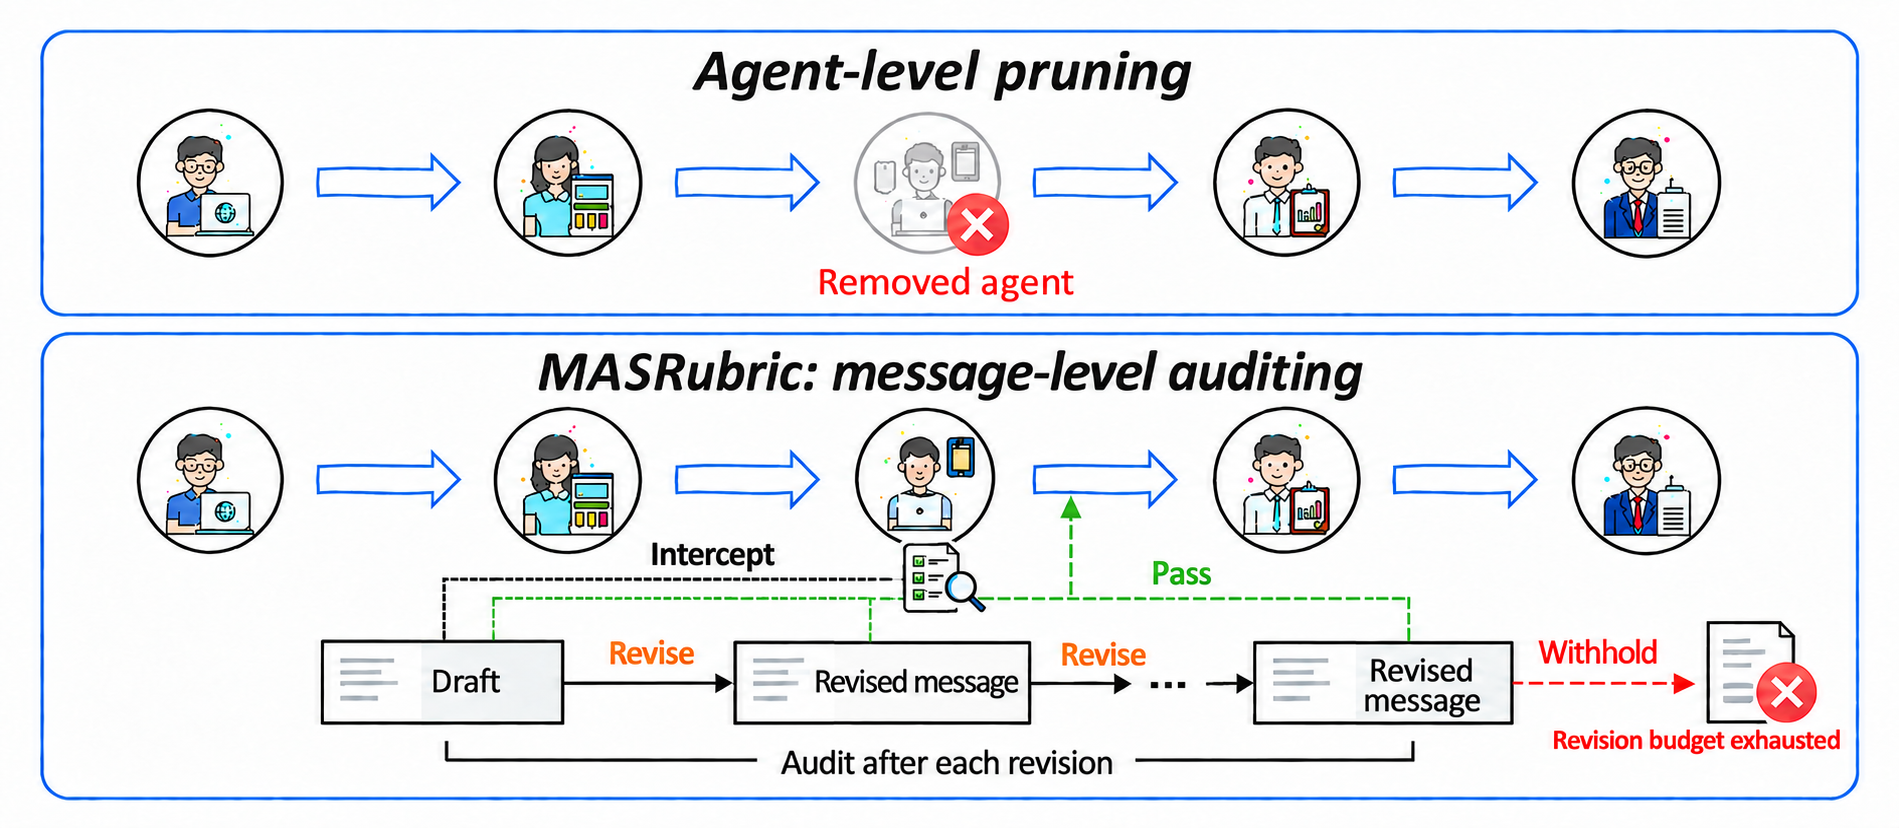
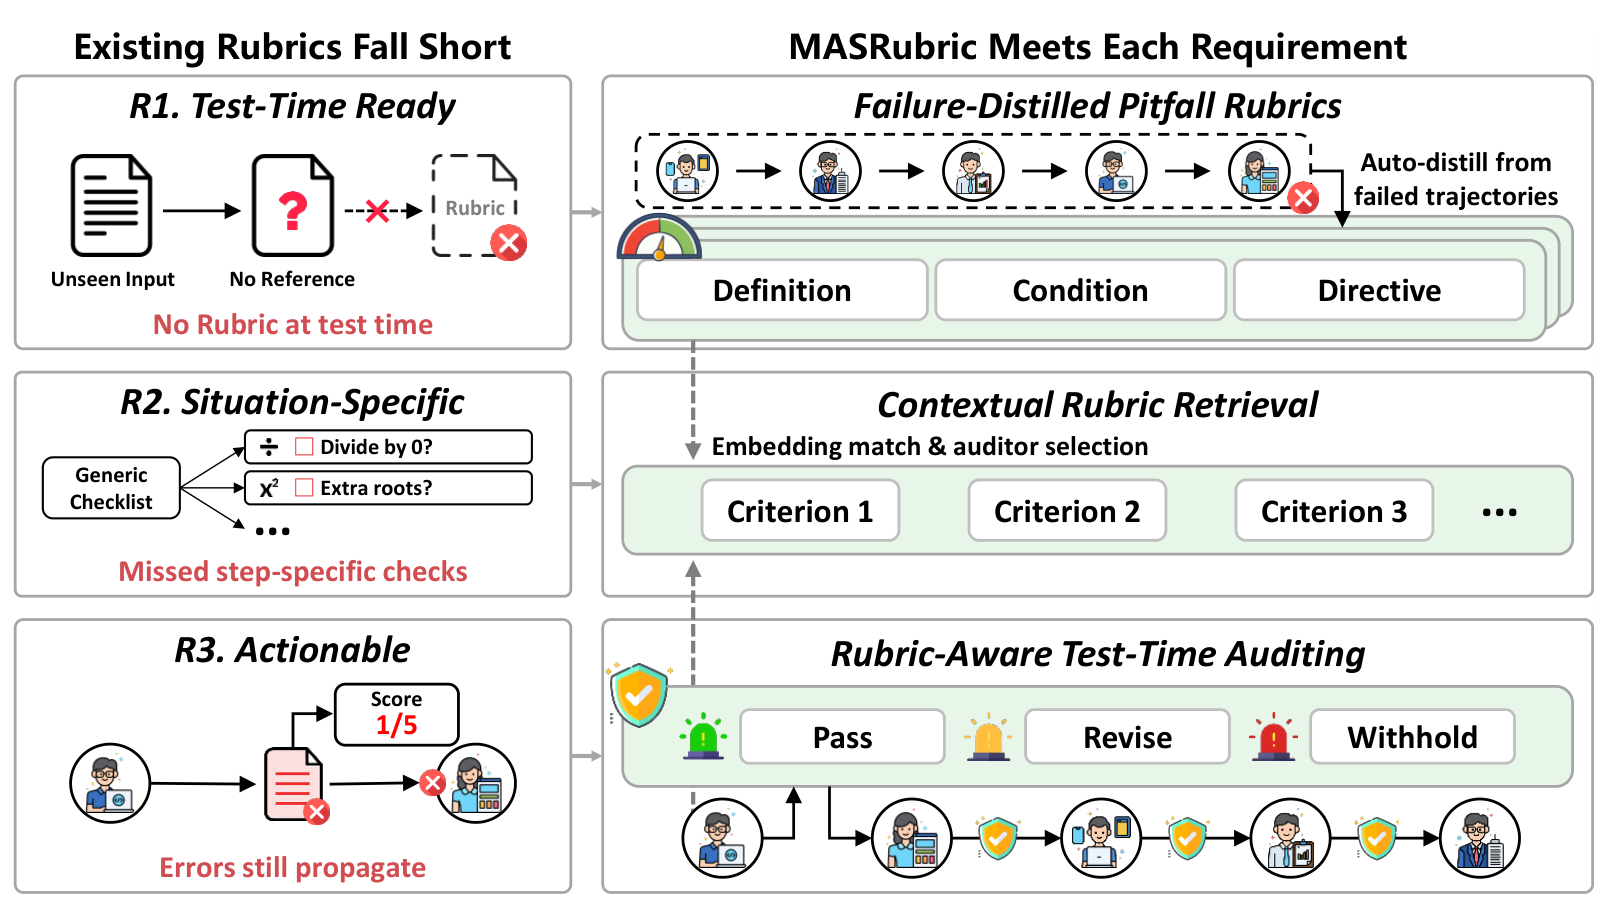
Align public presentation with current MASRubric manuscript and original figures

Changed region(s): [[0.0, 0.0302, 0.9926, 0.9964]]

diff --git a/readme.md b/readme.md
@@ -14,49 +14,74 @@
 </p>
 
 <p align="center">
-  <a href="https://arxiv.org/abs/2602.23258">Preprint (earlier title)</a> &nbsp;|&nbsp;
+  <a href="#paper-and-citation">Manuscript</a> &nbsp;|&nbsp;
   <a href="docs/paper_main_reproduction.md">Runbook</a> &nbsp;|&nbsp;
   <a href="docs/experiment_matrix.md">Experiments</a> &nbsp;|&nbsp;
-  <a href="#citation">Citation</a>
+  <a href="#reported-results">Reported results</a>
 </p>
 
 ## Overview
 
-MASRubric builds a bank of diagnostic criteria from failed multi-agent
-trajectories, retrieves a contextual rubric for each intermediate message, and
-decides whether to **Pass**, **Revise**, or **Withhold** it. A separate auditor
-provides feedback; the reasoning agent revises its own output. Base models remain
-frozen, and the criterion bank stays fixed during inference. Reference answers
-are used for offline mining and benchmark grading, and are withheld from the
-online auditor.
+MASRubric audits intermediate messages before errors propagate through a
+multi-agent system. It distills recurring reasoning pitfalls from failed
+trajectories into a reusable criterion bank, then retrieves a context-specific
+rubric for each message. The auditor's verdict controls whether that message is
+passed downstream, revised by its author, or withheld.
 
-1. **Learn from failures.** Collect unsuccessful multi-agent trajectories and
-   distill reusable diagnostic criteria into a compact bank.
-2. **Retrieve a rubric.** Select criteria relevant to the current task and
-   intermediate message.
-3. **Audit before broadcast.** Pass accepted messages, request targeted revisions,
-   and withhold messages that still fail after the revision budget.
+The framework addresses three requirements for useful test-time rubrics:
+
+- **Test-time ready:** reusable criteria apply to unseen inputs without a
+  reference answer or human-written criterion at inference time.
+- **Situation-specific:** each message is checked against criteria whose
+  applicability conditions match its reasoning context.
+- **Actionable:** criterion-level judgments lead to **Pass**, **Revise**, or
+  **Withhold** decisions before the message reaches downstream agents.
 
 <p align="center">
-  <img src="image/readme/masrubric-overview.png" alt="Agent-level dropout and MASRubric message-level auditing" width="1000">
+  <img src="image/readme/masrubric-overview.png" alt="Existing rubrics versus MASRubric on test-time readiness, situation specificity, and actionable decisions" width="1000">
 </p>
 
-<p align="center"><em>From agent-level dropout to message-level auditing: retrieve a rubric, revise the message, and control what reaches downstream agents.</em></p>
+<p align="center"><em>Figure 1 from the MASRubric manuscript: existing rubrics and MASRubric compared against the three requirements.</em></p>
+
+## Method
+
+1. **Mine criteria from failures.** Run a source MAS on training queries, retain
+   failed trajectories, and identify recurring agent-level pitfalls. Each
+   criterion records a name, diagnostic definition, applicability condition,
+   and inspection directive.
+2. **Compact the bank.** Retrieve semantically similar criteria and use an LLM
+   to eliminate duplicate error patterns. The resulting bank stays fixed
+   during inference.
+3. **Retrieve a contextual rubric.** Match the message's reasoning situation to
+   applicability conditions, then select the relevant criteria.
+4. **Audit and intervene.** Aggregate binary criterion judgments into a
+   satisfaction rate. Pass messages meeting the threshold; otherwise return
+   diagnostic feedback to the original agent for revision, or withhold the
+   message when its revision budget is exhausted.
+
+Reference answers support offline failure collection and rubric mining. The
+online auditor operates without them.
 
 <p align="center">
   <img src="image/readme/masrubric-framework.png" alt="Offline criterion-bank construction and online MASRubric information flow" width="1100">
 </p>
 
-<p align="center"><em>MASRubric combines offline criterion-bank construction with online retrieval, auditing, and Pass / Revise / Withhold decisions.</em></p>
+<p align="center"><em>Figure 2 from the MASRubric manuscript. Lower: offline rubric mining and two-stage deduplication. Upper: contextual retrieval, criterion-level auditing, and Pass / Revise / Withhold decisions.</em></p>
 
-## Paper
+## Reported results
 
-The public preprint is available under the project's earlier title,
-[**AgentDropoutV2: Optimizing Information Flow in Multi-Agent Systems via
-Test-Time Rectify-or-Reject Pruning**](https://arxiv.org/abs/2602.23258).
-Its latest posted version is v2, dated May 28, 2026. This repository now uses
-the MASRubric name; the [citation](#citation) retains the preprint's title and
-author metadata.
+The current MASRubric manuscript reports the following average accuracies with
+Qwen3-8B reasoning agents (Tables 1 and 2):
+
+| Evaluation | Underlying MAS | + MASRubric | Gain |
+| --- | ---: | ---: | ---: |
+| Fixed-MAS, 9 math benchmarks | 51.15% | 52.74% | +1.59 points |
+| Dynamic-MAS, 9 math benchmarks | 50.86% | 53.69% | +2.83 points |
+| Dynamic-MAS, 4 code benchmarks | 46.63% | 48.37% | +1.74 points |
+
+These are manuscript-reported results. New runs produce their own measurements;
+the release's supported reproduction scope is described in the
+[runbook](docs/paper_main_reproduction.md#supported-scope-and-runtime-behavior).
 
 ## Quick start
 
@@ -119,8 +144,8 @@ OlympiadBench grader, external assets, and output interpretation.
 The reference launcher covers nine math tasks and four code tasks. The banks
 contain 2,000 math criteria and 2,545 code criteria. Twelve evaluation datasets
 are bundled; LiveCodeBench's matching 400-problem file and embedding caches must
-be supplied or generated separately. Precomputed experiment outputs and result
-tables are excluded; new runs write their own measurements.
+be supplied or generated separately. Raw experiment outputs are excluded; new
+runs write their own measurements.
 
 ## Additional experiments
 
@@ -155,20 +180,10 @@ results, logs, caches, and local credentials are ignored by Git. Review any
 manually added outputs before sharing them, as they can contain prompts, paths,
 and endpoint configuration.
 
-## Citation
+## Paper and citation
 
-For the public preprint, use its arXiv citation:
-
-```bibtex
-@misc{wang2026agentdropoutv2optimizinginformationflow,
-  title={AgentDropoutV2: Optimizing Information Flow in Multi-Agent Systems via Test-Time Rectify-or-Reject Pruning},
-  author={Yutong Wang and Siyuan Xiong and Xuebo Liu and Wenkang Zhou and Liang Ding and Miao Zhang and Min Zhang},
-  year={2026},
-  eprint={2602.23258},
-  archivePrefix={arXiv},
-  primaryClass={cs.AI},
-  url={https://arxiv.org/abs/2602.23258}
-}
-```
+This repository presents **MASRubric: Auditing Information Flow in Multi-Agent
+Systems with Failure-Distilled Pitfall Rubrics**. Its public preprint link and
+citation will be added when the manuscript update is available.
 
 This codebase builds on [AgentDropout](https://github.com/wangzx1219/AgentDropout).

diff --git a/docs/paper_main_reproduction.md b/docs/paper_main_reproduction.md
@@ -33,8 +33,9 @@ dependencies cannot silently switch the run to string comparison.
 ## Assets and endpoints
 
 Twelve evaluation datasets, the MBPP training examples, and the two criterion
-banks are included under `paper/assets/`. The 400-record LiveCodeBenchV1 input
-is external. Place it at
+banks are included under `paper/assets/`. The banks contain 2,000 math and 2,545
+code criteria, matching the current manuscript's Table 5. The 400-record
+LiveCodeBenchV1 input is external. Place it at
 `paper/assets/datasets/livecode/livecodebench_v1.jsonl`, or use `--in-file` for a
 single LiveCodeBench run. Use the matching 400-problem evaluation set when
 comparing with the paper; a different export changes the evaluation population.
@@ -138,23 +139,29 @@ missing outputs count as incorrect.
 
 The configurable runtime in `test/masrubric/` also provides a fixed DAG and
 intervention presets through `test/run_release_experiment.py`. This extension
-has not been established as equivalent to the paper's historical Fixed-MAS
-implementation or every comparison and ablation method. See the
+has not been established as equivalent to the Fixed-MAS experiments reported
+in the current manuscript or every comparison and ablation method. See the
 [experiment matrix](experiment_matrix.md) for its available presets.
 
-The reference launcher's message limit of 7 counts the initial user task plus
-at most 6 agent messages. Math uses 20 retrieval candidates, up to 5 selected
-criteria, and a satisfaction threshold of 0.6. Code uses direct top-3 retrieval
-and a threshold of 1.0; its final-answer temperature is 0.0. Math final-answer
-temperature is 0.7. These code settings differ from the paper's general setup
-(20 candidates, up to 5 selected criteria, threshold 0.6, and temperature 0.7
-for other models). Renaming or running the artifact does not establish that
-every manuscript result has been reproduced.
+The current manuscript reports six chat turns (§4.1). This artifact sets its
+message limit to 7, counting the initial user task plus at most 6 agent messages.
+The manuscript also specifies a three-revision budget, 20 retrieval candidates,
+up to 5 selected criteria for math and 3 for code, and satisfaction thresholds
+of 0.6 and 1.0, respectively. The artifact matches those rubric-size limits,
+revision budgets, and thresholds. Satisfaction is measured over the selected
+criteria; the math threshold is 3/5 only when five criteria are selected.
+
+Two code-path differences remain: direct top-3 retrieval replaces the
+coarse-to-fine selection described in §3.3, and the final-answer temperature is
+0.0 while §4.1 states 0.7 for non-auditor models. Math final-answer temperature
+is 0.7. These implementation differences should be considered when comparing
+new runs with manuscript results.
 
 Batch audits use the diagnostic definition, applicability condition, and
-inspection directive. Single-criterion audits and per-criterion fallback use
-the applicability condition and inspection directive. The preserved runtime
-accepts an empty judgment set; API or parsing failures can yield empty or
+inspection directive. The manuscript's judgment stage uses only the
+applicability condition and inspection directive (§3.3; Figure 7), as do the
+artifact's single-criterion audits and per-criterion fallback. The preserved
+runtime accepts an empty judgment set; API or parsing failures can yield empty or
 partial judgments. Inspect these separately from successful criterion checks.
 The dynamic runtime restarts a task without intervention when at most one usable
 message remains; the fixed runtime does not use this whole-task fallback.

diff --git a/docs/experiment_matrix.md b/docs/experiment_matrix.md
@@ -146,10 +146,11 @@ bash test/run-gsm8k.sh --method masrubric_math_main --model-profile math_8b --li
 
 These presets use the separate release runtime. Their values below are
 executable settings, not a claim that each preset reproduces a paper row.
-For example, the three-criterion preset also changes the threshold to 1.0,
-and there is no one-revision preset corresponding to the new Table 3 row.
+For example, the three-criterion preset also changes the threshold to 1.0;
+the current manuscript's Table 3 varies criterion count with the default 0.6
+threshold. There is no preset for Table 3's one-revision row.
 The release `fixed` framework is an extension and has not been established as
-equivalent to the paper's Fixed-MAS implementation.
+equivalent to the Fixed-MAS experiments reported in the current manuscript.
 
 | Preset | Release configuration | Main arguments |
 | --- | --- | --- |
